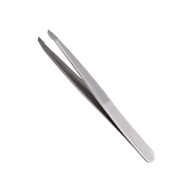
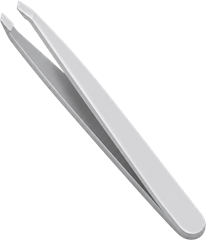
파리채·핀셋 이미지를 새 디자인으로 교체하고 파리채를 키움 (#50)
- 빨강·초록 파리채와 흰 핀셋 이미지로 교체 (투명 여백을 잘라 1x·2x 생성)
- 파리채를 112px에서 180px로 키움. 커서 한도(128px)를 넘어서 마우스를 따라다니는 이미지(followCursor)로 그림
- 클릭 지점을 새 이미지에 맞춤 (파리채: 그물 한가운데, 핀셋: 두 날 끝)
- 클릭 모션 배율을 커진 크기에 맞춰 1.4에서 1.1로 낮춤

Changed region(s): [[0.0, 0.0, 1.0, 1.0]]

diff --git a/src/cursors.js b/src/cursors.js
@@ -9,23 +9,58 @@ function cursorValue(name, hotX, hotY, fallback) {
   return `-webkit-image-set(url("${url(`${name}.png`)}") 1x, url("${url(`${name}@2x.png`)}") 2x) ${hotX} ${hotY}, ${fallback}`;
 }
 
-// 파리채: 그물 한가운데가 클릭 지점이다. 이미지는 112x108(1x).
+// 파리채: 그물 한가운데가 클릭 지점이다. 이미지는 180x178(1x).
+// 커서 이미지는 128px까지만 되는데 파리채는 그보다 커서, 커서 대신 followCursor()로 마우스를 따라다니게 그린다.
 export const SWATTER = {
-  cursor: cursorValue('swatter', 33, 27, 'crosshair'),
+  cursor: 'none',
   image: url('swatter@2x.png'),
-  width: 112,
-  height: 108,
-  hot: { x: 33, y: 27 },
+  width: 180,
+  height: 178,
+  hot: { x: 40, y: 40 },
 };
 
-// 핀셋: 뾰족한 끝이 클릭 지점이다. 이미지는 96x96(1x).
+// 핀셋: 두 날의 뾰족한 끝이 클릭 지점이다. 이미지는 103x120(1x).
 export const TWEEZERS = {
-  cursor: cursorValue('tweezers', 22, 17, 'pointer'),
+  cursor: cursorValue('tweezers', 5, 5, 'pointer'),
   image: url('tweezers@2x.png'),
-  width: 96,
-  height: 96,
-  hot: { x: 22, y: 17 },
+  width: 103,
+  height: 120,
+  hot: { x: 5, y: 5 },
 };
+
+// 128px보다 큰 도구 이미지를 커서처럼 마우스에 붙여 보여 준다. 부르면 따라다니기 시작하고, 돌려받은 함수를 부르면 멈춘다.
+// 이 이미지는 클릭을 가로채지 않는다(pointer-events: none).
+export function followCursor(tool) {
+  const el = document.createElement('img');
+  el.src = tool.image;
+  Object.assign(el.style, {
+    position: 'fixed',
+    left: '0',
+    top: '0',
+    width: `${tool.width}px`,
+    height: `${tool.height}px`,
+    pointerEvents: 'none',
+    zIndex: 9,
+    // 첫 마우스 움직임이 있기 전에는 숨겨 둔다.
+    display: 'none',
+  });
+  document.body.appendChild(el);
+
+  const onMove = (event) => {
+    el.style.display = 'block';
+    el.style.transform = `translate(${event.clientX - tool.hot.x}px, ${event.clientY - tool.hot.y}px)`;
+  };
+  const onLeave = () => {
+    el.style.display = 'none';
+  };
+  window.addEventListener('pointermove', onMove);
+  document.addEventListener('pointerleave', onLeave);
+  return () => {
+    window.removeEventListener('pointermove', onMove);
+    document.removeEventListener('pointerleave', onLeave);
+    el.remove();
+  };
+}
 
 // 클릭한 자리에 커서와 같은 크기로 이미지를 잠깐 겹쳐 보여 주는 모션 (맞든 빗나가든 같다).
 // scale: 이미지 크기 배율, frames: Web Animations 키프레임, ms: 길이.

diff --git a/src/swatter.js b/src/swatter.js
@@ -1,6 +1,6 @@
 import * as THREE from 'three';
 import { getScene } from './scene.js';
-import { SWATTER, playClickMotion } from './cursors.js';
+import { SWATTER, followCursor, playClickMotion } from './cursors.js';
 
 const HIT_RADIUS = 0.7;
 const SWING_MS = 220;
@@ -13,12 +13,13 @@ let canvas = null;
 let target = null;
 let getTargets = null;
 let onCaught = null;
+let stopFollow = null;
 
 // 클릭 위치에서 파리채를 휘두르는 모션을 잠깐 보여준다 (맞든 빗나가든 같다).
 // 그물 한가운데(클릭 지점)를 중심으로 크게 내리쳤다가 돌아오는 느낌으로 보이게 한다.
 function playSwing(x, y) {
   playClickMotion(SWATTER, x, y, {
-    scale: 1.4,
+    scale: 1.1,
     ms: SWING_MS,
     frames: [
       { transform: 'rotate(-35deg) scale(1.25)', opacity: 1 },
@@ -64,6 +65,7 @@ export function enableSwatter({ targets = null, mosquito = null, onCaught: callb
   getTargets = targets;
   onCaught = callback;
   canvas.style.cursor = SWATTER.cursor;
+  stopFollow = followCursor(SWATTER);
   canvas.addEventListener('click', onClick);
 }
 
@@ -71,6 +73,8 @@ export function disableSwatter() {
   if (!canvas) return;
   canvas.removeEventListener('click', onClick);
   canvas.style.cursor = '';
+  stopFollow?.();
+  stopFollow = null;
   canvas = null;
   target = null;
   getTargets = null;
